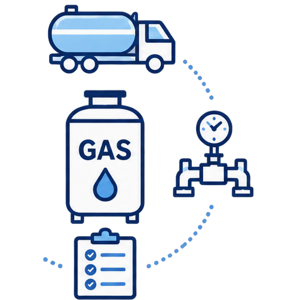
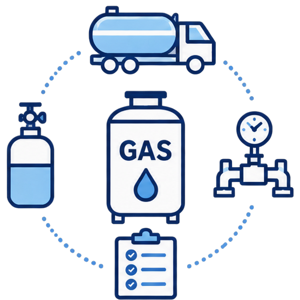
기업소개 OVERVIEW One-Stop 아이콘 잘림 수정(점선 원 전체 포함 재추출), 가스제품 KLCC GAS 오른쪽 사진을 실제 시설 사진(액화산소 탱크·실린더 야드)으로 교체. onestop ?v=20260827b

diff --git a/company.html b/company.html
@@ -165,7 +165,7 @@
               <b class="ovstat__num">24<sup>+</sup></b><span class="ovstat__label">년 업력</span>
             </div>
             <div class="ovstat">
-              <span class="ovstat__ic ovstat__ic--img" aria-hidden="true"><img src="assets/images/site/overview/ic-onestop.png?v=20260827" alt="" loading="lazy"></span>
+              <span class="ovstat__ic ovstat__ic--img" aria-hidden="true"><img src="assets/images/site/overview/ic-onestop.png?v=20260827b" alt="" loading="lazy"></span>
               <b class="ovstat__num">One-Stop</b><span class="ovstat__label">가스 솔루션</span>
             </div>
           </div>

diff --git a/products-gas.html b/products-gas.html
@@ -141,7 +141,7 @@
               <span class="klccgas__sub">24시간 안정적인 물류체계</span>
             </li>
           </ul>
-          <div class="klccgas__photo"><img src="assets/images/site/co2-recovery.jpg?v=20260827" alt="한국탄산화학㈜ 가스 생산·공급 시설" loading="lazy"></div>
+          <div class="klccgas__photo"><img src="assets/images/site/klcc-gas-yard.jpg?v=20260827" alt="한국탄산화학㈜ 액화산소 저장탱크·가스 실린더 야드" loading="lazy"></div>
         </div>
       </div>
     </section>
